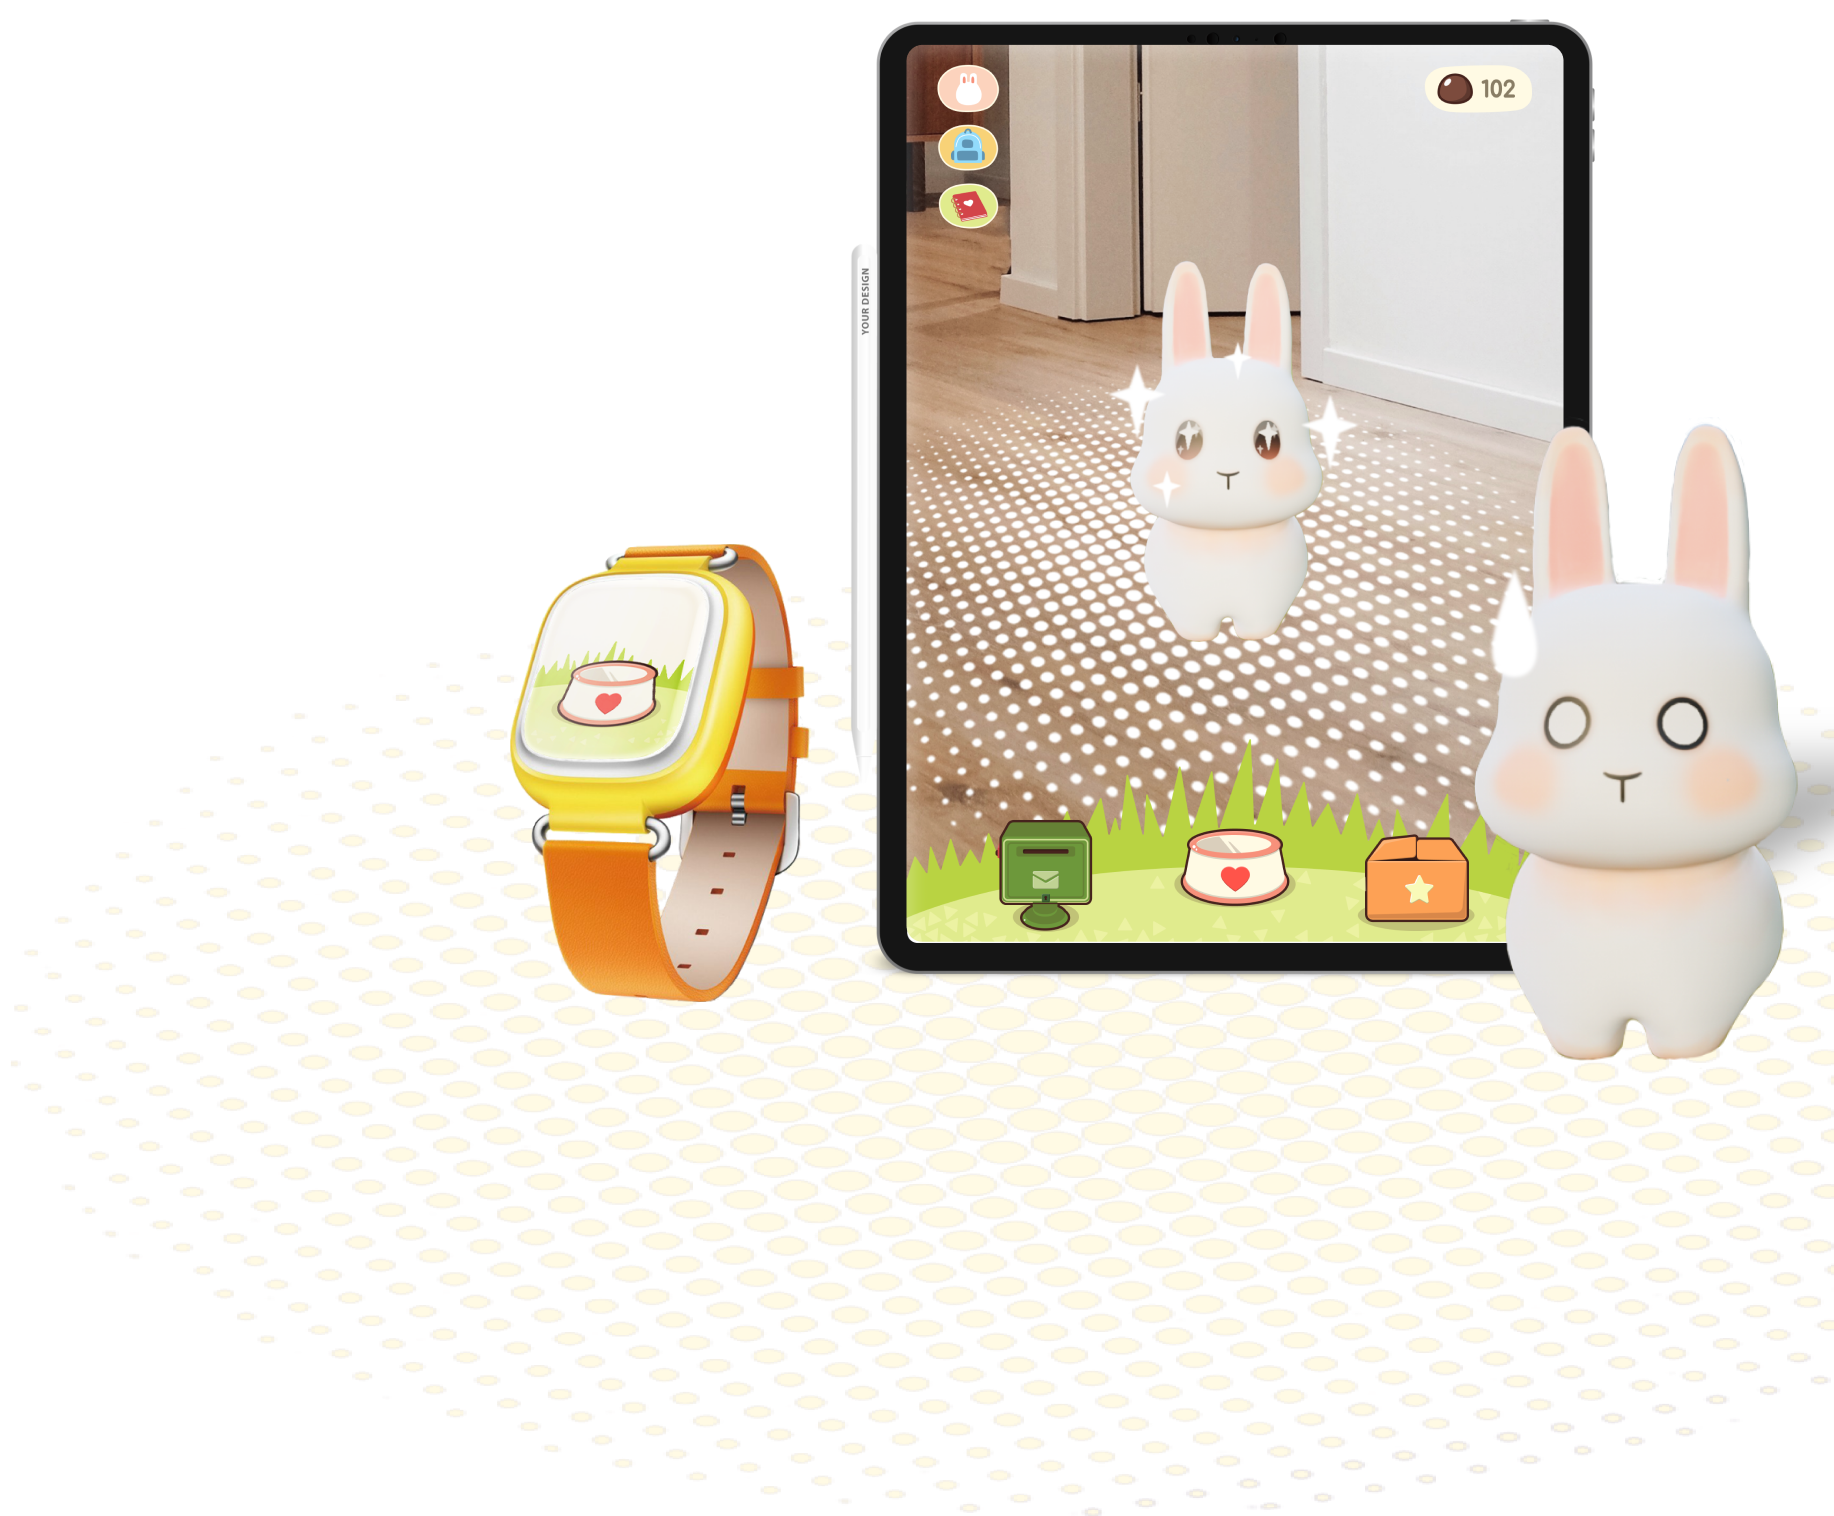
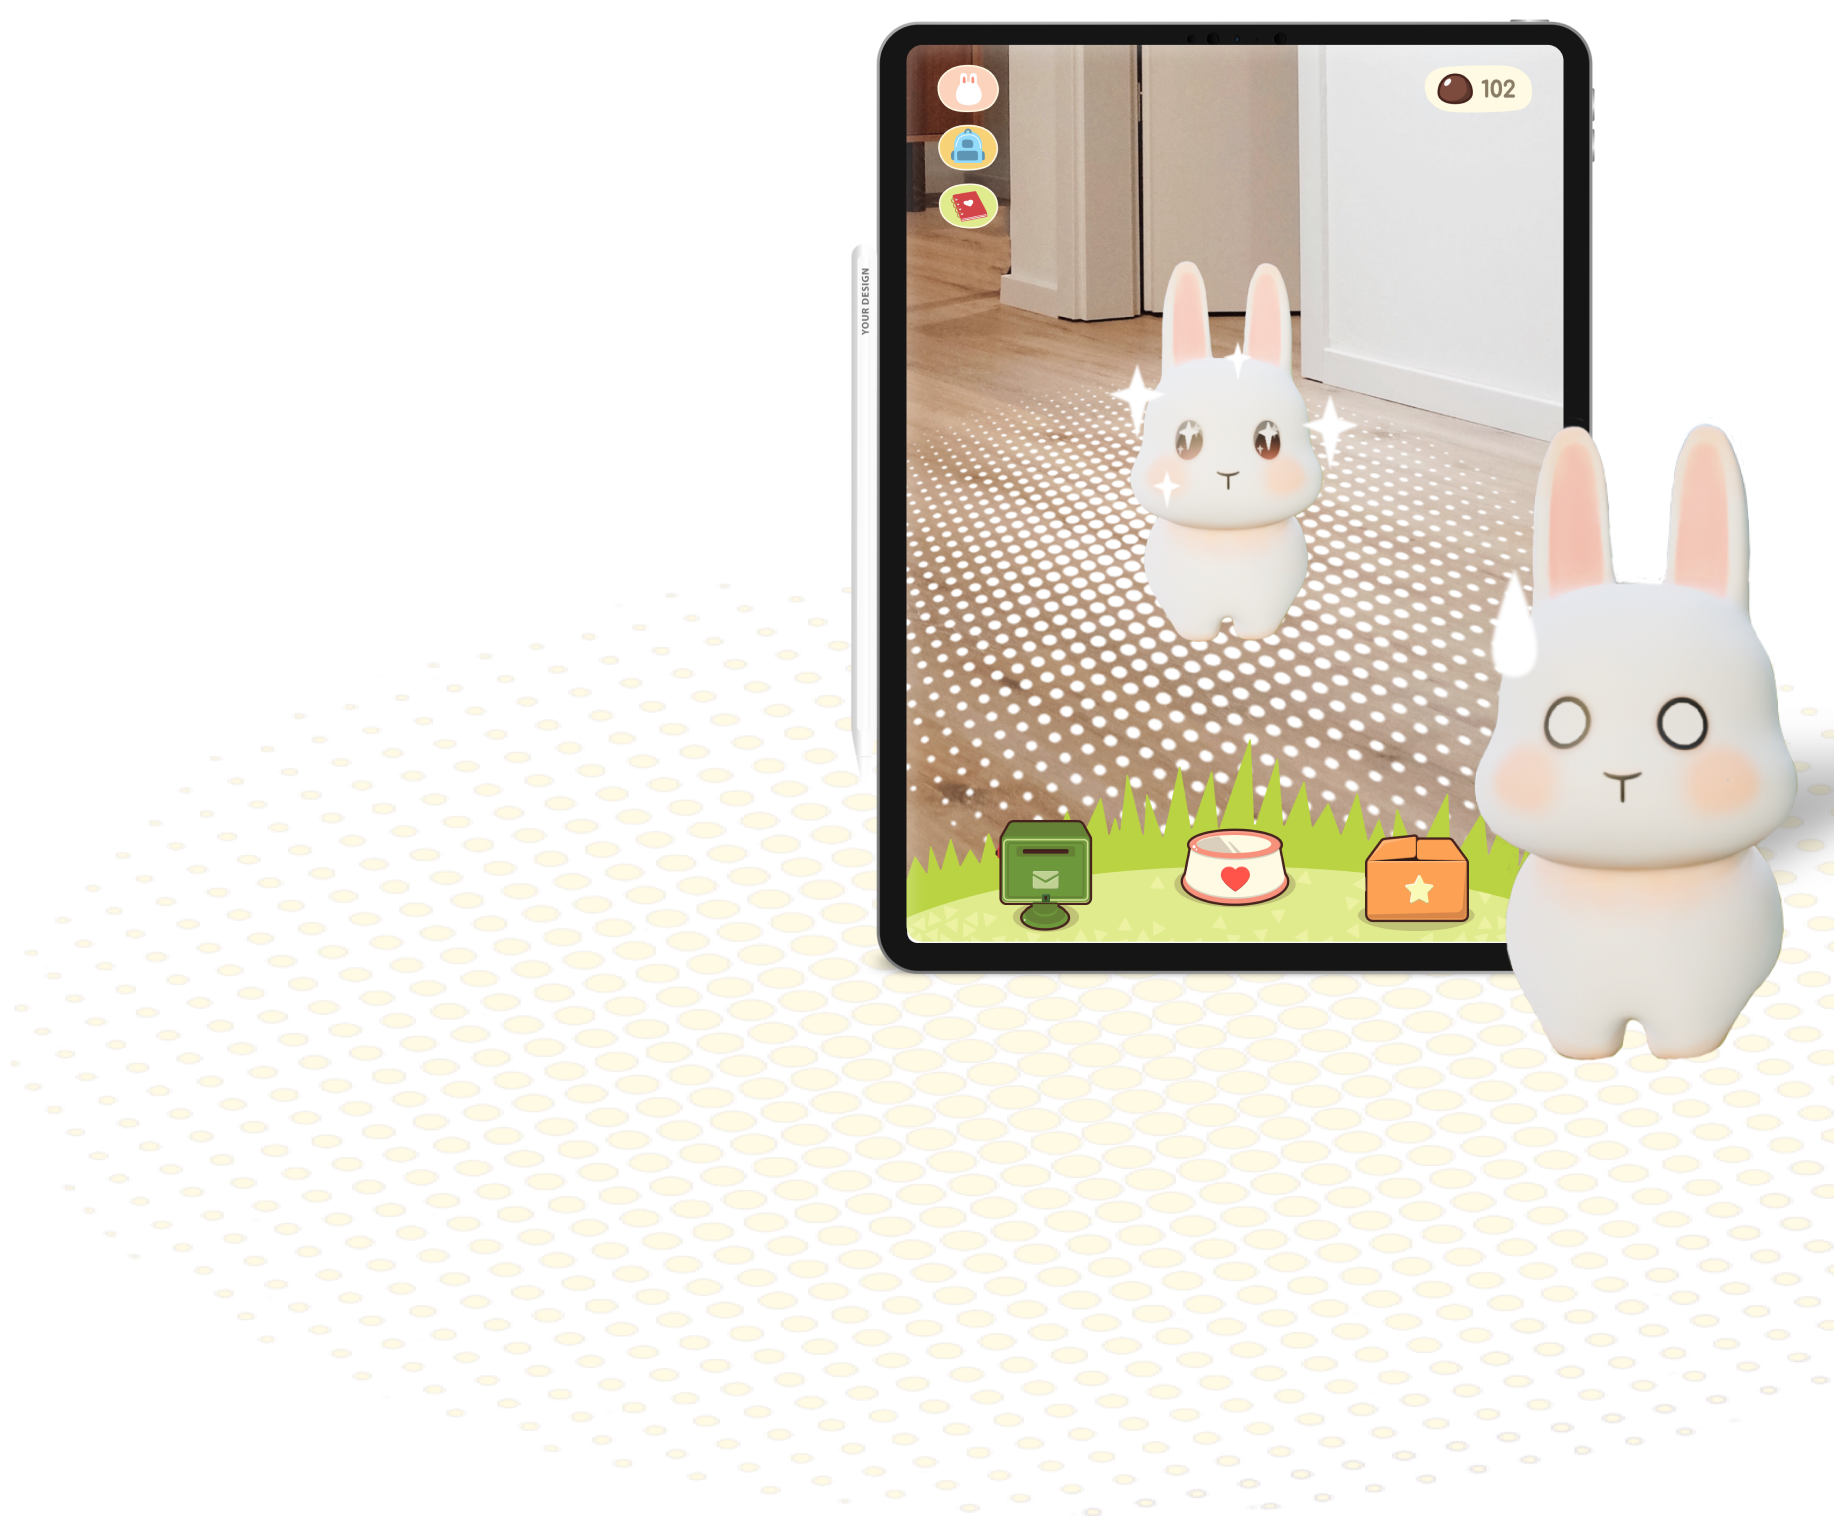
Update Bunny

Changed region(s): [[0.2797, 0.341, 0.4662, 0.6821]]

diff --git a/index.html b/index.html
@@ -64,8 +64,8 @@
 
        <div style="width: 48%; height: auto; position: absolute; left: 2.8%;" onmouseover="playBMAnimation()" onmouseout="withdrawBMAnimation()">
         <a href="src/html/bunnyMood.html"><img src="src/images/BunnyMood/BMCoverPad.png" id="BMCoverPad" style="width:69.5%; height:auto; position:absolute; bottom:12%; left:25%; animation-duration:1s; animation-fill-mode: forwards;"></a>
-        <a href="src/html/bunnyMood.html"><img src="src/images/BunnyMood/BMCoverPhone.png" id="BMCoverPhone" style="width:37.8%; height:auto; position:absolute; bottom:6%; right:4%; animation-duration:1s; animation-fill-mode: forwards;"></a>
-        <a href="src/html/bunnyMood.html"><img src="src/images/BunnyMood/BMCoverWatch.png" id="BMCoverWatch" style="width:20.5%; height:auto; position:absolute; bottom:9%; left:18%; animation-duration:1s; animation-fill-mode: forwards;"></a>
+        <!-- <a href="src/html/bunnyMood.html"><img src="src/images/BunnyMood/BMCoverPhone.png" id="BMCoverPhone" style="width:37.8%; height:auto; position:absolute; bottom:6%; right:4%; animation-duration:1s; animation-fill-mode: forwards;"></a>
+        <a href="src/html/bunnyMood.html"><img src="src/images/BunnyMood/BMCoverWatch.png" id="BMCoverWatch" style="width:20.5%; height:auto; position:absolute; bottom:9%; left:18%; animation-duration:1s; animation-fill-mode: forwards;"></a> -->
         <a href="src/html/bunnyMood.html"><img src="src/images/BunnyMood/BMCoverTitle.png" id="BMCoverTitle" style="width:70%; height:auto; position:absolute; top:14%; left:18%; animation-duration:1s; animation-fill-mode: forwards;"></a>
         <a href="src/html/bunnyMood.html"><img src="src/images/main/BunnyMoodCover.svg" style="width: 100%; height: auto;"></a>
        </div>

diff --git a/src/js/main.js b/src/js/main.js
@@ -117,15 +117,15 @@ function p5cover1(){
 
 function playBMAnimation(){
   document.getElementById("BMCoverPad").style.animationName = "BMCoverPad";
-  document.getElementById("BMCoverPhone").style.animationName = "BMCoverPhone";
-  document.getElementById("BMCoverWatch").style.animationName = "BMCoverWatch";
+  // document.getElementById("BMCoverPhone").style.animationName = "BMCoverPhone";
+  // document.getElementById("BMCoverWatch").style.animationName = "BMCoverWatch";
   document.getElementById("BMCoverTitle").style.animationName = "BMCoverTitle";
 }
 
 function withdrawBMAnimation(){
   document.getElementById("BMCoverPad").style.animationName = "BMCoverPad-1";
-  document.getElementById("BMCoverPhone").style.animationName = "BMCoverPhone-1";
-  document.getElementById("BMCoverWatch").style.animationName = "BMCoverWatch-1";
+  // document.getElementById("BMCoverPhone").style.animationName = "BMCoverPhone-1";
+  // document.getElementById("BMCoverWatch").style.animationName = "BMCoverWatch-1";
   document.getElementById("BMCoverTitle").style.animationName = "BMCoverTitle-1";
 }
 

diff --git a/src/html/bunnyMood.html b/src/html/bunnyMood.html
@@ -360,7 +360,7 @@
     <section id="Iteration">
       <img class="Title" src="../images/BunnyMood/WIPTitle.png">
       <div class="SectionBlock">
-        <h2>Code in Unity</h2>
+        <a href="https://github.com/rayateapurv/emo-bunny.git"><h2>Code in Unity</h2></a> 
         <h2>Bunny manga works</h2>
       </div>
     </section>
